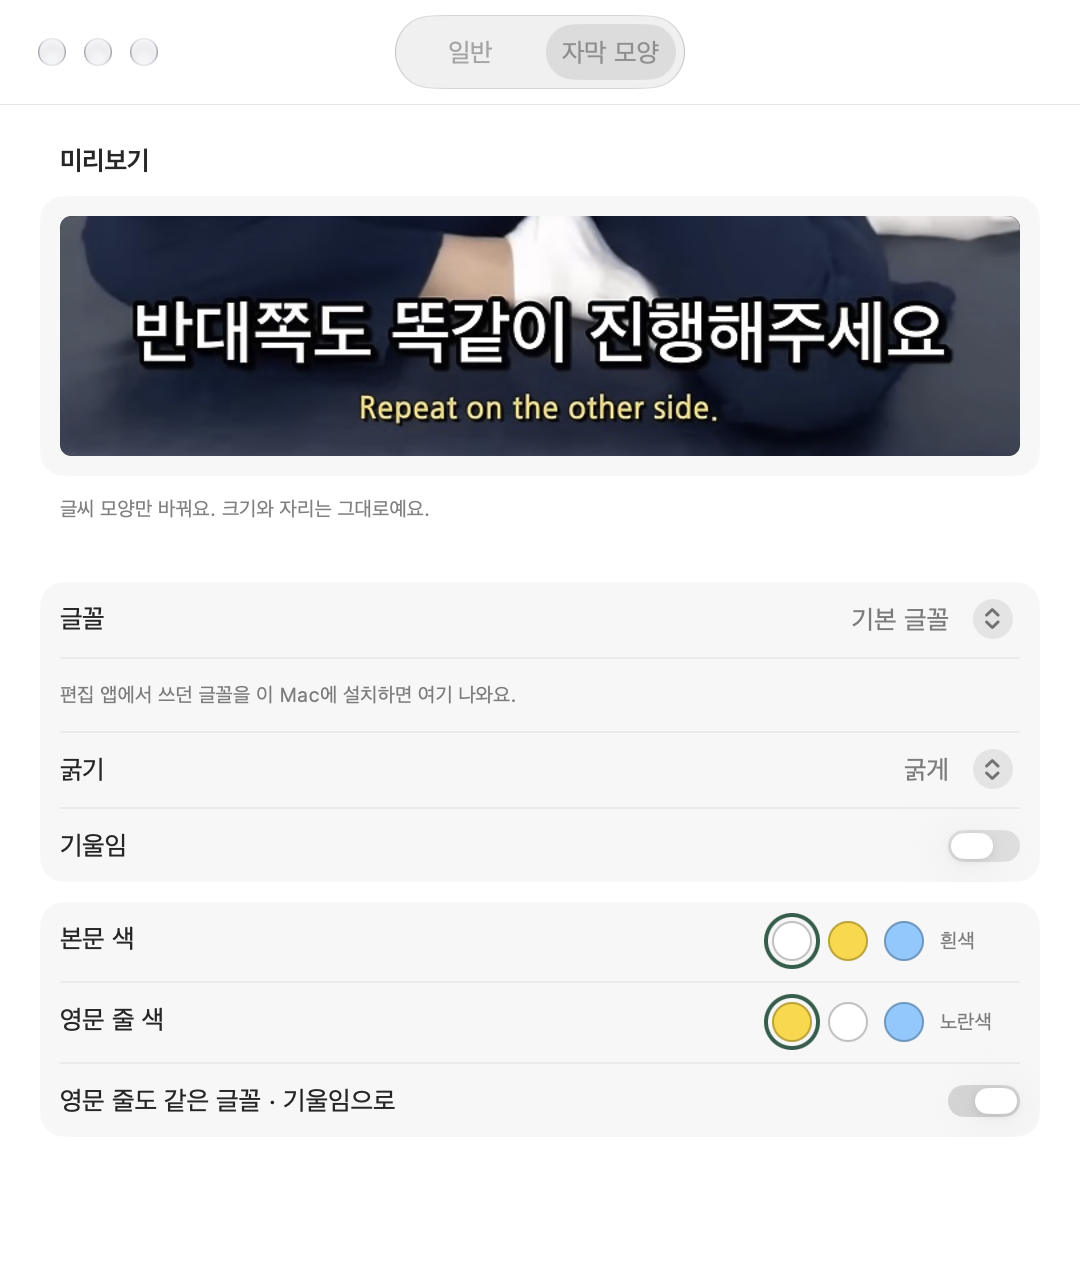
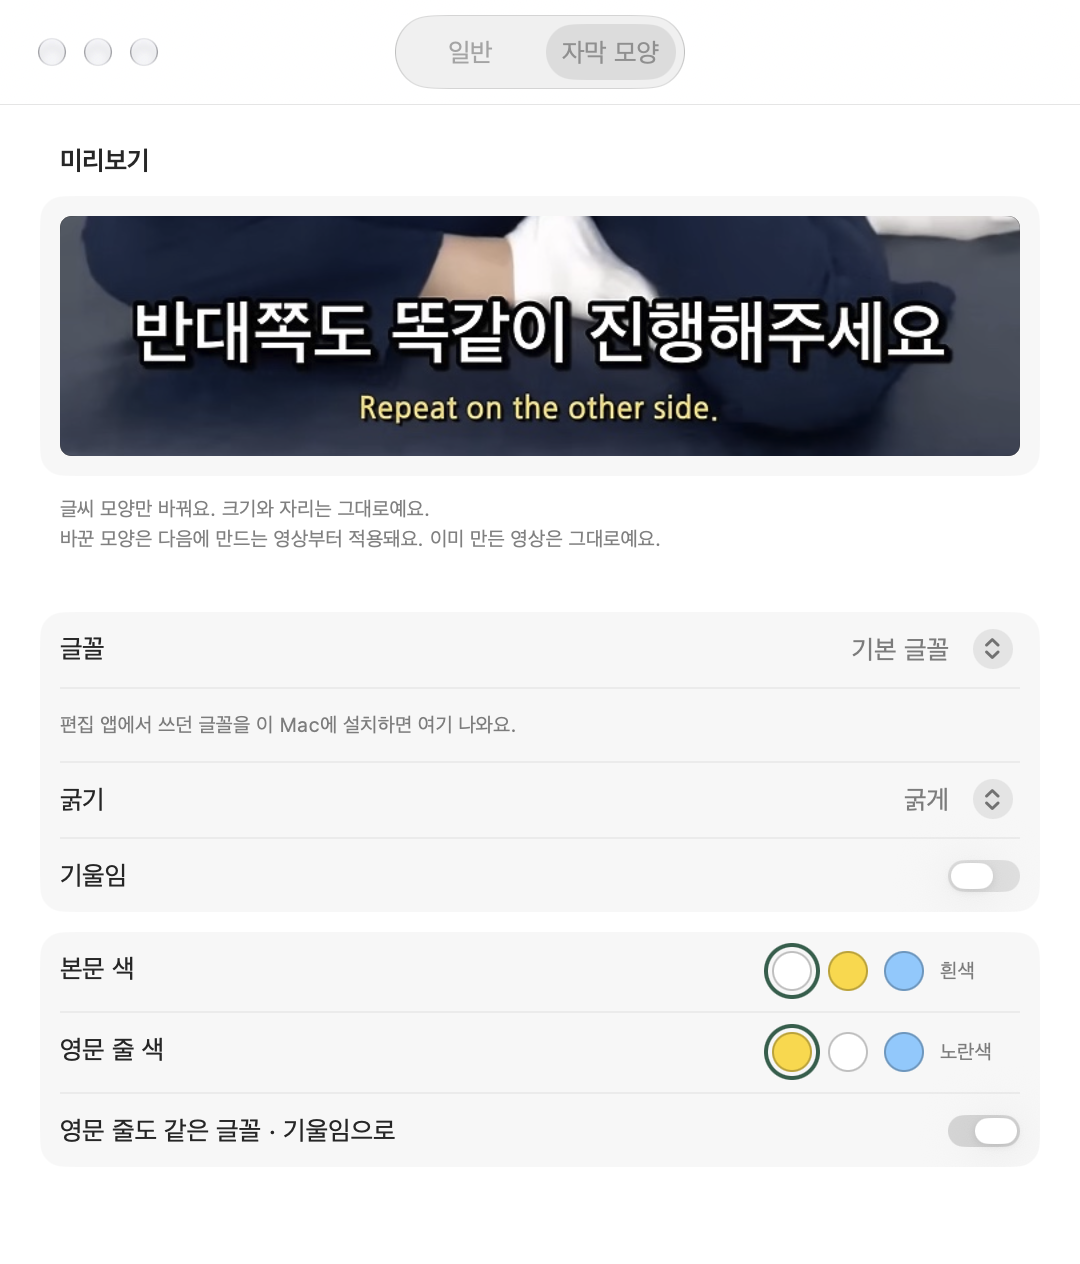
design: 자막 모양은 다음 영상부터 — 설정에 한 줄
설정 자막 모양 탭 미리보기 아래에 "바꾼 모양은 다음에 만드는 영상부터 적용돼요.
이미 만든 영상은 그대로예요." (Copy.Look.appliesNext). 옛 결과물은 자기 모양으로
재현돼야 해서(§9 · §1-8) 바꾼 모양은 다음 영상부터다. 이미 만든 영상이 바뀌는 줄 알면
고르기가 무섭다 — 먼저 말한다.

decisions.md 6단계 물어볼 것 둘에 답을 적었다 (아이콘 방향 그대로).
화면: settings-look · settings-look-font-missing 다시 뜸.

diff --git a/Madi/UI/Copy.swift b/Madi/UI/Copy.swift
@@ -670,6 +670,8 @@ public enum Copy {
     public enum Look {
         public static let lookSectionTitle = "자막 모양"
         public static let lookSectionDetail = "글씨 모양만 바꿔요. 크기와 자리는 그대로예요."
+        /// 옛 결과물은 자기 모양으로 재현돼야 한다 (`§9` · `§1-8`). 그래서 바꾼 모양은 **다음 영상부터**다.
+        public static let appliesNext = "바꾼 모양은 다음에 만드는 영상부터 적용돼요. 이미 만든 영상은 그대로예요."
         public static let font = "글꼴"
         public static let lookFontDefault = "기본 글꼴"
         public static let lookFontHint = "편집 앱에서 쓰던 글꼴을 이 Mac에 설치하면 여기 나와요."

diff --git a/Madi/UI/Settings/SettingsScreen.swift b/Madi/UI/Settings/SettingsScreen.swift
@@ -222,9 +222,13 @@ private struct LookSettings: View {
             } header: {
                 Text(Copy.Look.preview)
             } footer: {
-                Text(Copy.Look.lookSectionDetail)
-                    .font(.caption)
-                    .foregroundStyle(.secondary)
+                VStack(alignment: .leading, spacing: Tokens.Space.hairline) {
+                    Text(Copy.Look.lookSectionDetail)
+                    // 이미 만든 영상이 바뀌는 줄 알면 고르기가 무섭다. 바뀌지 않는다고 먼저 말한다.
+                    Text(Copy.Look.appliesNext)
+                }
+                .font(.caption)
+                .foregroundStyle(.secondary)
             }
 
             Section {
